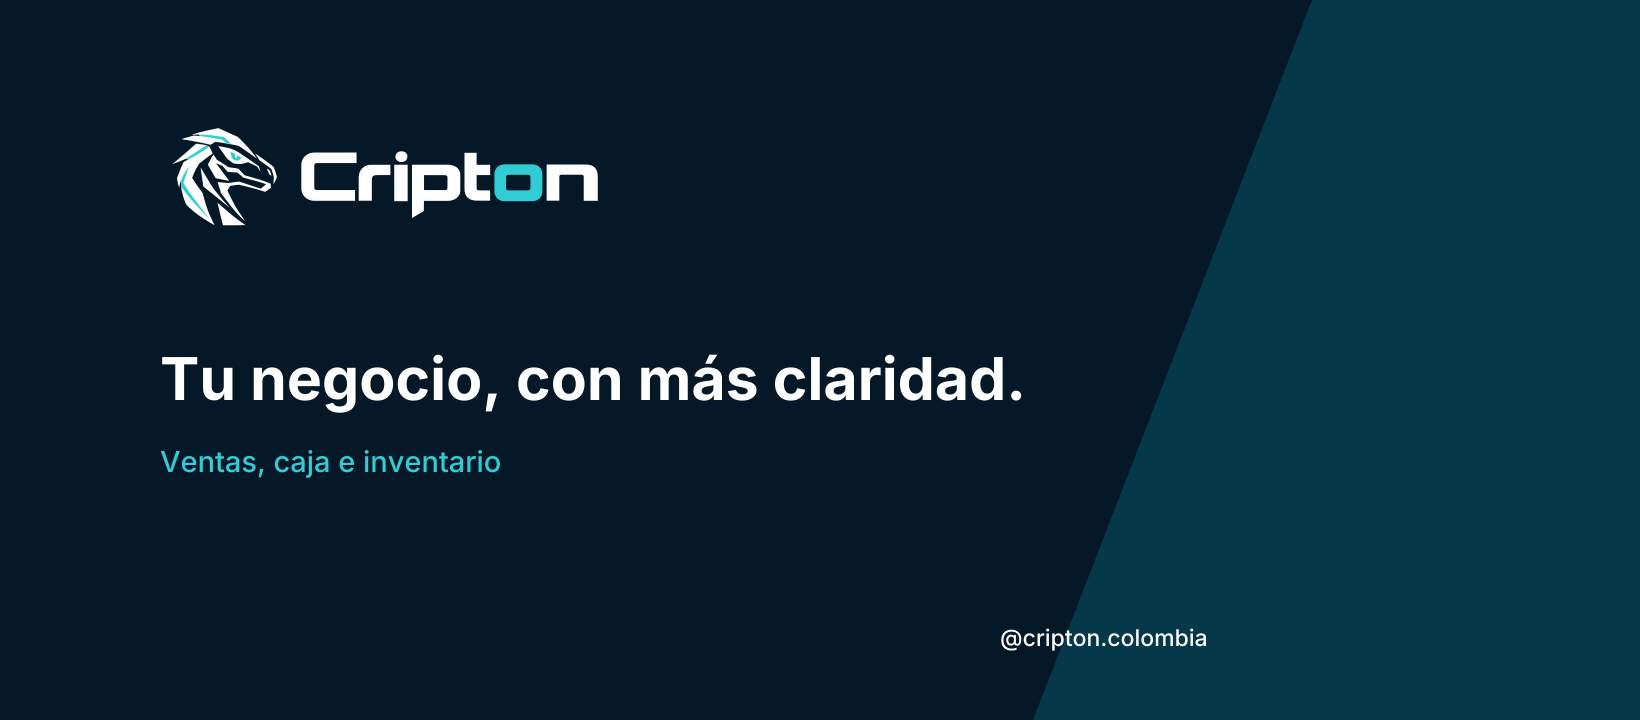
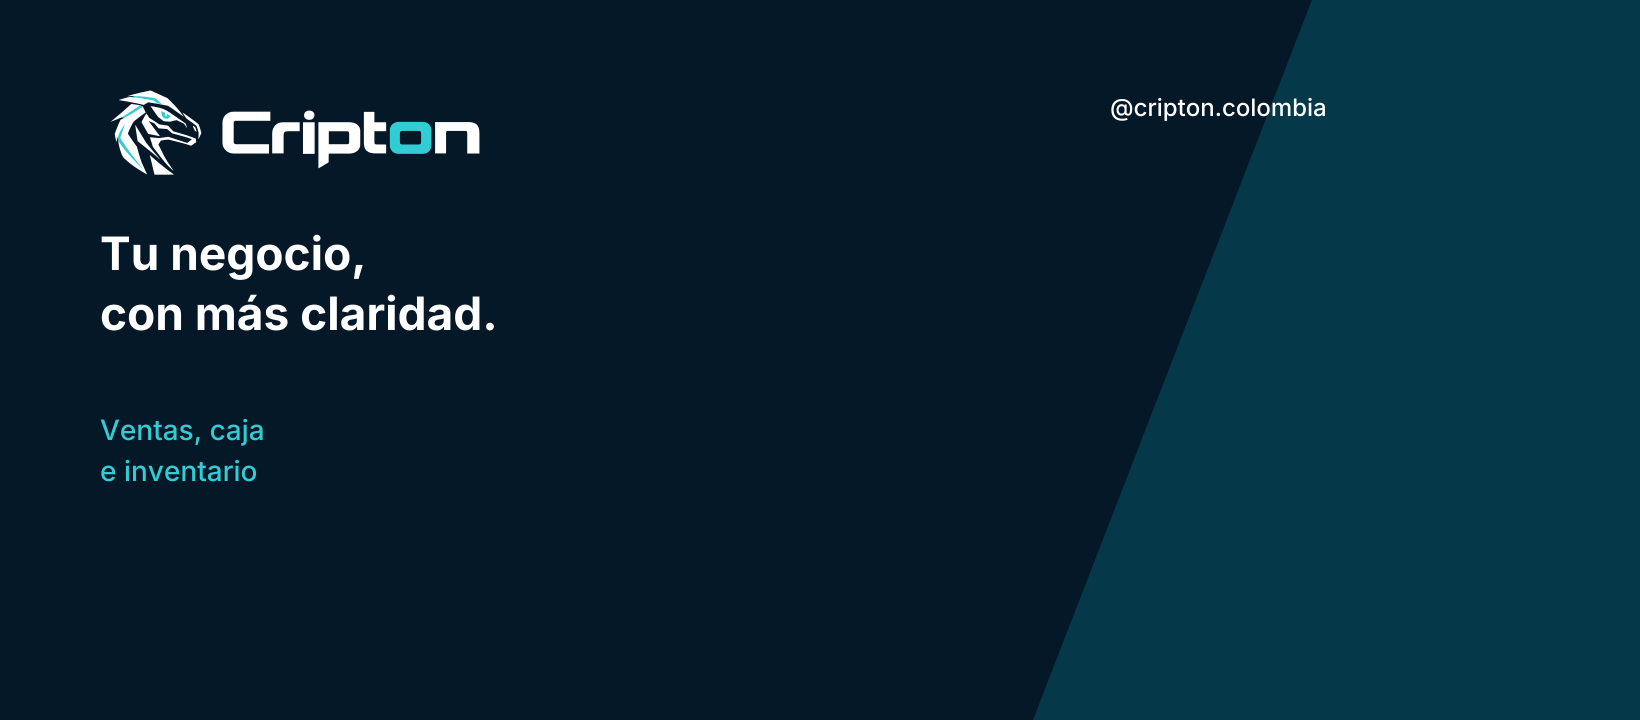
feat(marketing): configure Facebook page and verify brand crops

diff --git a/marketing/tools/finish.py b/marketing/tools/finish.py
@@ -17,7 +17,14 @@ def banner(name,w,h,logo_rect,title_rect,sub_rect,handle_rect,title,size):
         tx=T if outlined else U
         return f'<svg xmlns="http://www.w3.org/2000/svg" width="{w}" height="{h}" viewBox="0 0 {w} {h}"><title>Cripton POS · {name}</title>'+b.rect(0,0,w,h,b.NAVY)+f'<path d="M{int(w*.8)} 0H{w}V{h}H{int(w*.63)}Z" fill="{b.TEAL}" opacity=".4"/>'+b.logo(*logo_rect,True)+tx(title,*title_rect,size)+tx('Ventas, caja e inventario',*sub_rect,int(size*.5),b.CYAN,500)+tx('@cripton.colombia',*handle_rect,int(size*.4),b.WHITE,500)+'</svg>'
     (source/(name+'.svg')).write_text(draw(False),encoding='utf-8');(profiles/(name+'.svg')).write_text(draw(True),encoding='utf-8')
-banner('facebook-cover',1640,720,(160,116,450),(160,400),(160,472),(1000,646),'Tu negocio, con más claridad.',59)
+# Left safe column stays clear of Facebook's centered avatar in desktop/mobile previews.
+def facebook_cover():
+    def draw(outlined):
+        tx=lambda s,x,y,size,color=b.WHITE,weight=700:b.text(s,x,y,size,color,weight,outlined)
+        return '<svg xmlns="http://www.w3.org/2000/svg" width="1640" height="720" viewBox="0 0 1640 720"><title>Cripton POS · facebook-cover</title>'+b.rect(0,0,1640,720,b.NAVY)+'<path d="M1312 0H1640V720H1033Z" fill="'+b.TEAL+'" opacity=".4"/>'+b.logo(100,80,390,True)+tx('Tu negocio,',100,270,46)+tx('con más claridad.',100,330,46)+tx('Ventas, caja',100,440,28,b.CYAN,500)+tx('e inventario',100,481,28,b.CYAN,500)+tx('@cripton.colombia',1110,116,24,b.WHITE,500)+'</svg>'
+    (source/'facebook-cover.svg').write_text(draw(False),encoding='utf-8')
+    (profiles/'facebook-cover.svg').write_text(draw(True),encoding='utf-8')
+facebook_cover()
 # Keep meaningful YouTube content inside the centered 1546×423 editorial safe region.
 banner('youtube-banner',2560,1440,(580,525,400),(580,744),(580,820),(1570,822),'Tu negocio, con más claridad.',58)
 shutil.copyfile(ROOT.parent/'Cripton_Kit_Marca_v1_0/04_iconos/cripton_maskable_v1.0.svg',source/'avatar.svg')

diff --git a/marketing/qa/REPORTE_REVISION.md b/marketing/qa/REPORTE_REVISION.md
@@ -31,3 +31,7 @@ Exportación: 97 PNG de piezas y tarjetas, ocho PNG de perfiles, veinte láminas
 Se revisaron hojas de contacto de publicaciones e historias, una pieza de inventario a tamaño completo y el banner YouTube. Los seis MP4 se decodificaron sin errores. En navegador, R01 se reprodujo hasta el segundo 24 sin error; los filtros devolvieron 40 publicaciones/formato, 12 historias, 9 anuncios/formato y 12 horizontales. Clic y teclado Tab/Enter funcionaron. Galería en 1280 px y 393×852 sin desbordamiento horizontal ni imágenes visibles rotas. Se restauró el viewport. No se acreditan navegadores móviles nativos ni carga en redes.
 
 Las fuentes publicadas revisadas son web 645be14 y SaaS e088a55; el control de contexto terminó sin diferencias en esa revisión. Se conservaron los cambios locales ajenos informados. Los scripts de exportación y la galería no forman parte del build público de Astro.
+
+## Alta de Facebook — 2026-10-26
+
+Página Cripton.colombia creada y configurada con logo oficial, portada y ventas@cripton.com.co. Enlace verificado en sesión administrativa: https://www.facebook.com/profile.php?id=61596143211291 . El usuario cripton.colombia no está disponible según la plataforma; no se asignó alternativa. Se corrigió oclusión del titular por el avatar y se revisaron ambos previews y la página final. Registro y capturas: facebook-setup.json y Facebook-*.jpg. No se enviaron invitaciones ni se activaron anuncios o publicaciones de campaña. No se verificó acceso sin sesión.

diff --git a/marketing/README.md b/marketing/README.md
@@ -1,6 +1,6 @@
 # Marketing digital de Cripton POS
 
-Campaña inicial de 30 días, preparada el 26 de octubre de 2026. Repositorio: `pagina_pos`; rama `codex/marketing-launch`; base inicial `ce85b72`; fuente web actualizada y revisada `645be14`. Objetivo: generar conversaciones y demostraciones calificadas con comercios de Colombia mostrando el producto real y una identidad consistente. No se ha publicado ni programado contenido, ni contratado anuncios.
+Campaña inicial de 30 días, preparada el 26 de octubre de 2026. Repositorio: `pagina_pos`; rama `codex/marketing-launch`; base inicial `ce85b72`; fuente web actualizada y revisada `645be14`. Objetivo: generar conversaciones y demostraciones calificadas con comercios de Colombia mostrando el producto real y una identidad consistente. No se ha publicado ni programado contenido de campaña, ni contratado anuncios. La página de Facebook fue creada y personalizada con autorización; véase `qa/facebook-setup.json`.
 
 Abre **[index.html](index.html)** para revisar las piezas, descargar PNG, acceder a los SVG y reproducir los seis videos. La galería es local y no debe copiarse a `public/` ni desplegarse con la web: contiene materiales de revisión y fuentes.
 

diff --git a/marketing/qa/context-changes-review.md b/marketing/qa/context-changes-review.md
@@ -1,1 +1,5 @@
 Se detectaron cambios publicados durante la producción. Web: ce85b72 → 2b9da56 → 645be14, revisión de formularios accesibles, imágenes y evidencia de frontend; catálogo y capacidades se conservan. Se leyó el diff de portada, cabecera/pie, package y el registro transversal; se actualizó esta rama por fast-forward conservando marketing. SaaS: eb9a136 → e088a55, instalador y baseline de esquema aislado; se revisaron commits, plan y registro transversal. No se anuncian como despliegue o alta productiva acreditada. Baseline actualizado después de esta revisión, sin integrar historias entre repositorios ni incorporar modificaciones locales ajenas.
+
+## Revisión para alta de Facebook — 2026-10-26
+
+Revisados ae3790a, 361b60e, 9ff767b y d0ccec2 desde e088a55: instalación, staging, almacenamiento privado, ciclo de procesos y evidencia local. No cambian precios ni funciones comerciales del kit. Ubuntu, Azure, DNS/HTTPS, webhook Wompi y QR Bre-B continúan pendientes; no se anuncian como disponibles. Base de contexto actualizada a d0ccec2 sin integrar código SaaS.
